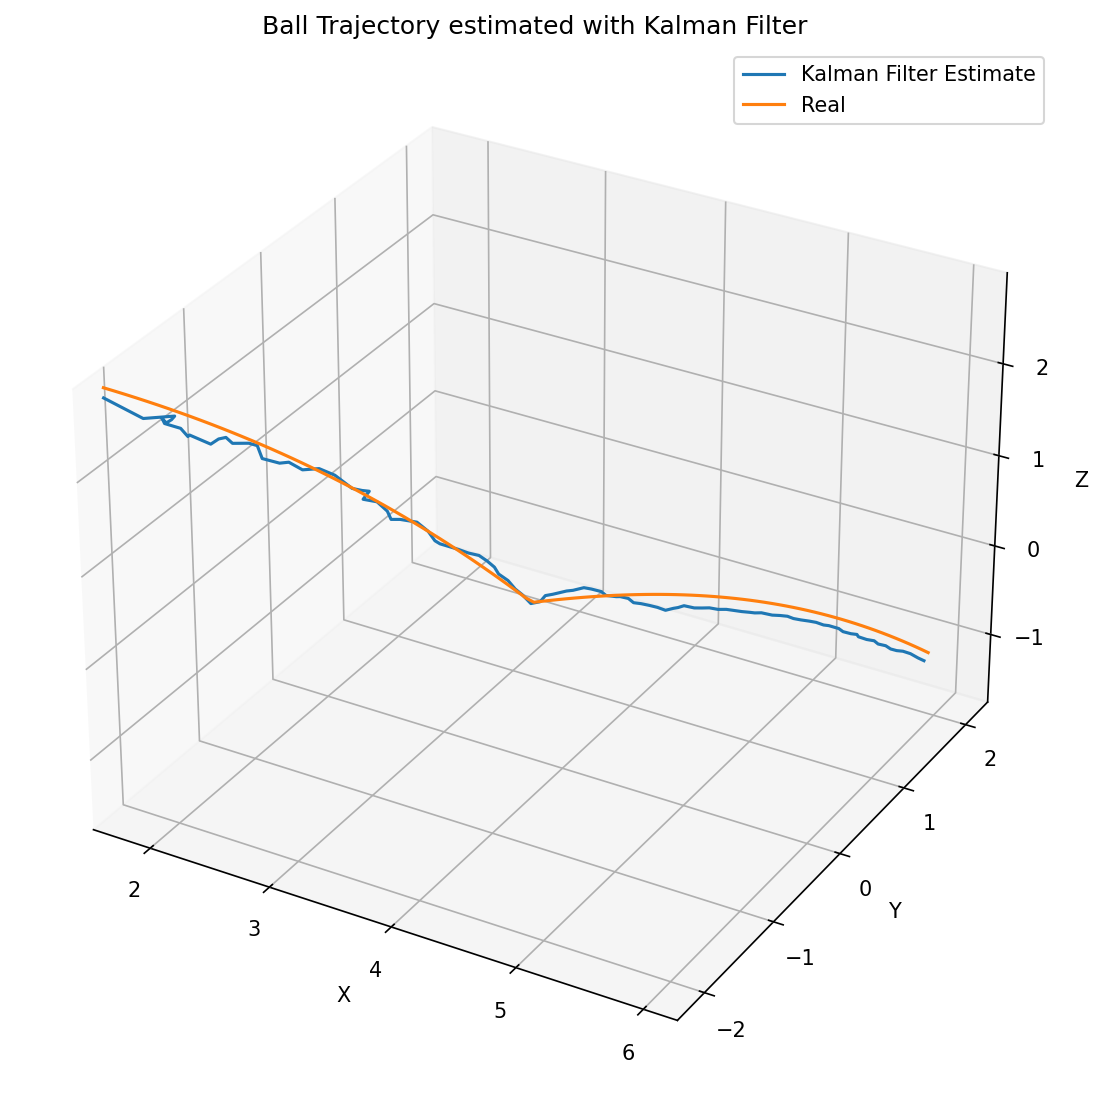
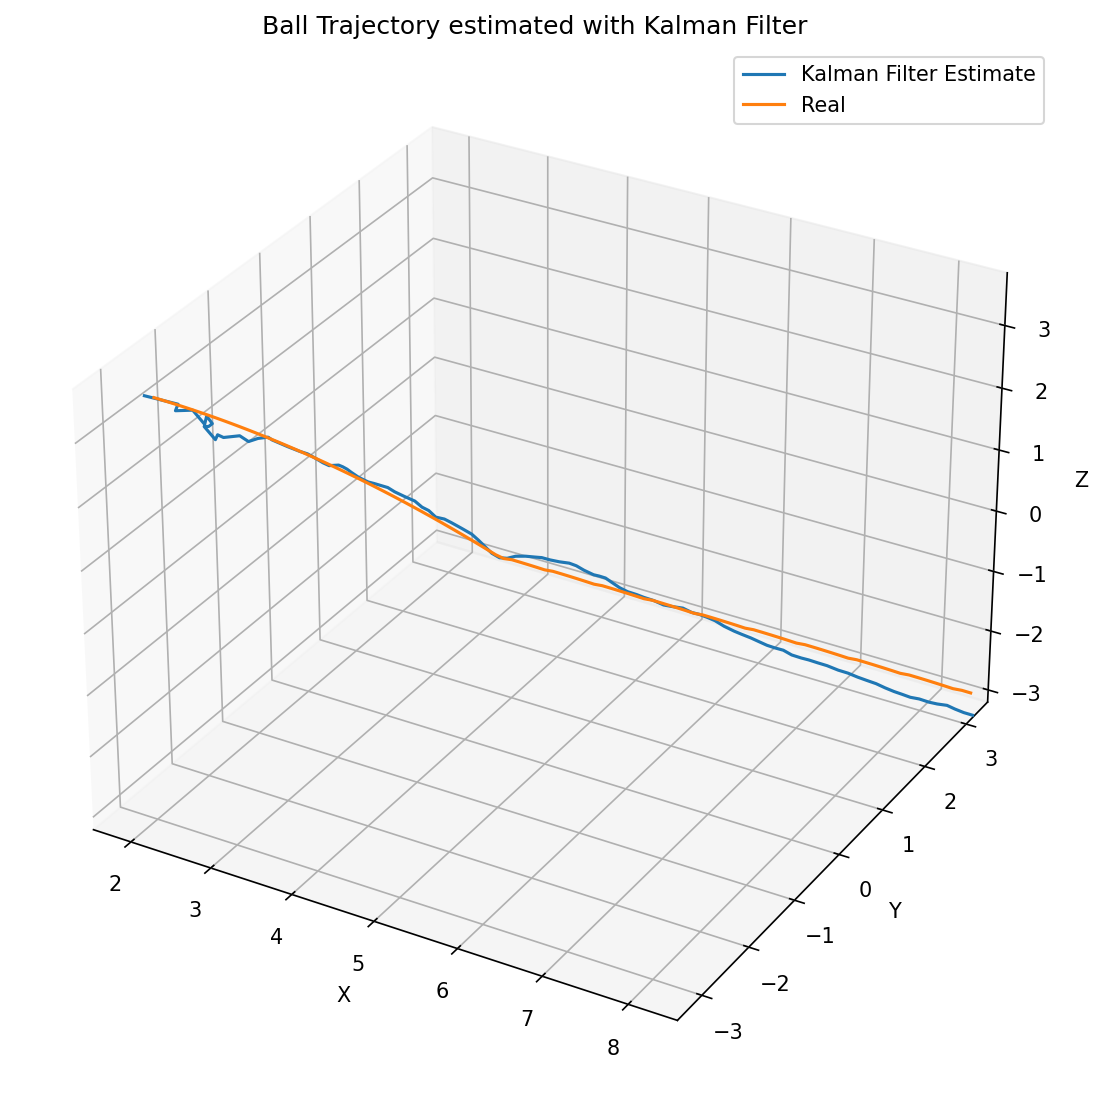
updates

diff --git a/test_catkin/src/testrobots/scripts/kf3d.py b/test_catkin/src/testrobots/scripts/kf3d.py
@@ -112,7 +112,7 @@ print("I SHAPE = ", I.shape) #print("I SHAPE = ",I, I.shape)
 
 Hz = 100.0 # Frequency of Vision System
 dt = 1.0/Hz
-T = 1.0 # s measuremnt time
+T = 1.0 # s measurement time
 m = int(T/dt) # number of measurements
 
 px= 0.0 # x Position Start
@@ -123,8 +123,8 @@ vx = 10.0 # m/s Velocity at the beginning
 vy = 0.0 # m/s Velocity
 vz = 0.0 # m/s Velocity
 
-c = 0.1 # Drag Resistance Coefficient
-d = 0.9 # Damping
+c = 0.0 # Drag Resistance Coefficient
+d = 0.0 # Damping
 
 Xr=[]
 Yr=[]
